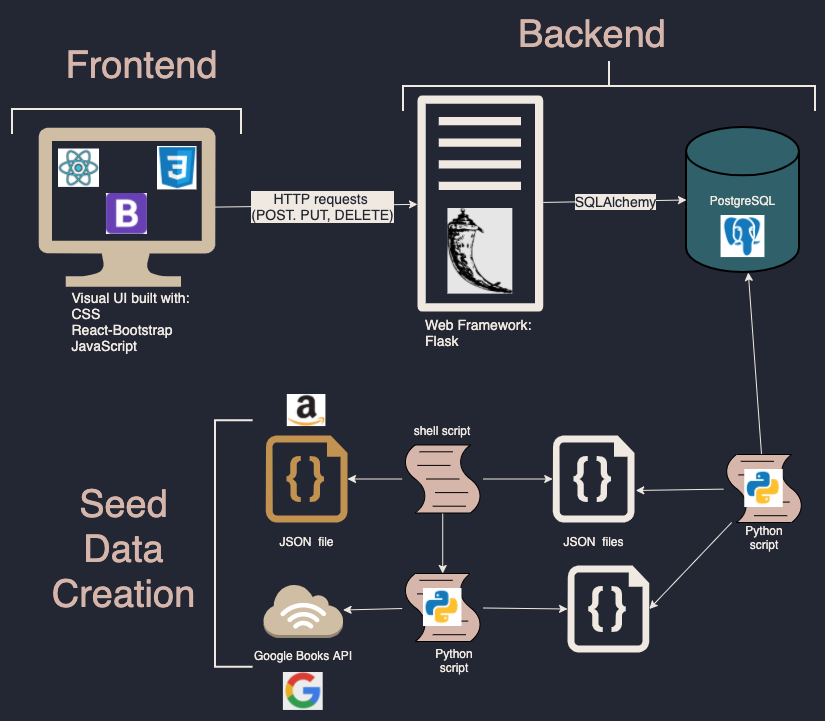
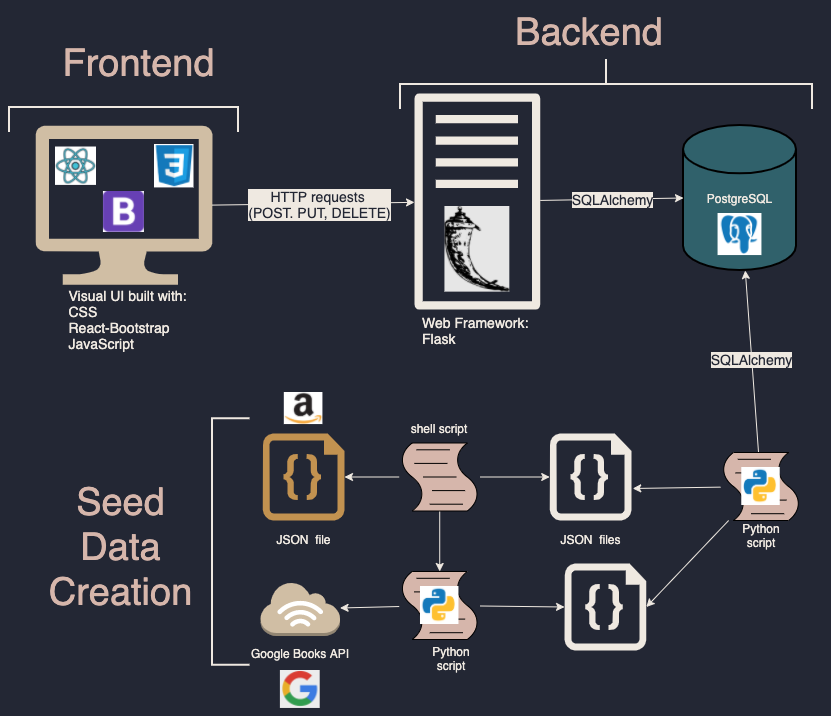
add system diagram, clean up old files

diff --git a/static/js/about.jsx b/static/js/about.jsx
@@ -7,18 +7,7 @@ const About = (prop) => {
       onSelect={(k) => prop.setTabKey(k)}
     >
       <Tab eventKey="about" title="About">
-        <div>
-          BiblioTech is a single page web application (SPWA) built over the course of 4 weeks as part of the Hackbright Academy program.
-          <div>
-            BiblioTech was built using the following technologies:
-            <li>
-              Python3, including flask, sqlalchemy
-            </li>
-            <li>
-              Javascript, react &amp; jsx
-            </li>
-          </div>
-        </div>
+        <AboutBasic/>
       </Tab>
       <Tab eventKey="tech" title="Tech Stack">
         <AboutTech/>
@@ -36,11 +25,26 @@ const About = (prop) => {
   )
 }
 
+const AboutBasic = () => {
+  return (
+    <div>
+      BiblioTech is a single page web application (SPWA) built over the course of 4 weeks as part of the Hackbright Academy program.
+      <div>
+      BiblioTech allows users to search, rate, and track books as well as get book recommendations. Initially motivated by a desire to build a digital catalog of Elizabeth's physical books, BiblioTech has evolved to provide enhanced search functionality and a recommendation engine. Appropriate seed data for the recommendation algorithm was parsed out of an available subset of Amazon Reviews using an iterable, repeatable process developed using command line scripting and python. In future iterations, Elizabeth hopes to incorporate additional fuzzy search functionality and explore additional recommendation options in future iterations.
+      </div>
+    </div>
+  )
+}
+
 const AboutTech = () => {
   return(
     <Row>
-      <Col>
-        TEsting
+      <Col md={{span:6, offset:3}}>
+      <img 
+        className="d-block w-100"
+        src="/static/img/SystemDiagram.png"
+        alt="DataModel"
+      />
       </Col>
     </Row>
   )
@@ -92,9 +96,9 @@ const AboutData = () => {
           <Row>
             <Col md={{span: 8, offset:2}}>
               <img 
-                className="d-block w-1"
+                className="d-block w-100"
                 src={dataModelToDisplay}
-                alt="InitialDataModel"
+                alt="DataModel"
                 />
             </Col>
           </Row>
